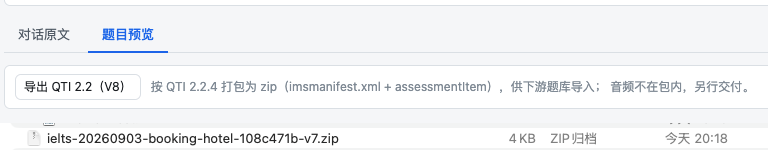
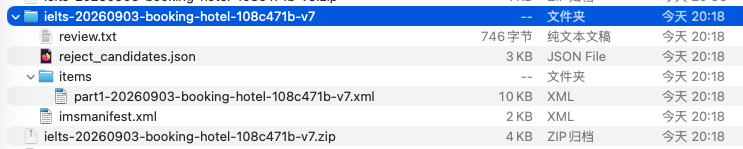
docs: tighten user guide language

diff --git a/USER_GUIDE.md b/USER_GUIDE.md
@@ -41,20 +41,8 @@
 
 ![全部材料生成成功](docs/images/user-guide/04-batch-completed.png)
 
-每张材料卡会同时预览最终题组，例如：
-
-- `Q1–Q4 · Form`
-- `Q5–Q10 · Note`
-
-每套固定分为两组，分界可能是 `4+6`、`5+5` 或 `6+4`。两组可以使用相同题型，也可以分别使用
-Form、Note、Table 中的不同题型。
-
-> 📷 **替换截图：`04-batch-completed.png`**
->
-> 1. 打开一批已经全部生成成功的“生成结果”页面；
-> 2. 找到一张题目也已生成完成的材料卡；
-> 3. 截图中必须完整显示场景标题、完成状态、信息点时间轴、两组题型标签和“阅读全文”按钮；
-> 4. 两组题型标签必须能看清题号范围，例如 `Q1–Q4 · Form`、`Q5–Q10 · Note`。
+材料卡会预览两组题目的题号范围和题型。每套按 `4+6`、`5+5` 或 `6+4` 分组，题型为 Form、
+Note 或 Table；两组可以使用相同题型。
 
 ### 某一套生成失败怎么办
 
@@ -65,12 +53,7 @@ Form、Note、Table 中的不同题型。
 - 成功后会从 `8/9` 自动变成 `9/9`；
 - 失败提示会自动消失。
 
-> 📷 **待补截图：`05-refill-failed-slot.png`**
->
-> 1. 打开一个存在单套生成失败、但其他材料已经成功的批次；
-> 2. 不要点击重跑整批；
-> 3. 截图中必须显示失败数量、失败原因说明、已经成功的材料数量和“补生成这一套”按钮；
-> 4. 如果当前没有自然失败批次，保留占位符，不需要故意制造故障。
+> 📷 **待补截图：单套生成失败和“补生成这一套”按钮**
 
 ---
 
@@ -90,13 +73,6 @@ Form、Note、Table 中的不同题型。
 
 ![查看对话原文和信息点](docs/images/user-guide/06-material-transcript.png)
 
-> 📷 **替换截图：`06-material-transcript.png`**
->
-> 1. 打开一套已经生成题目的材料，停留在“对话原文”页签；
-> 2. 将页面滚动到既能看到若干对话 Turn，又能看到下方“材料原文局部修改”和右侧“Turn 批注”的位置；
-> 3. 截图中必须显示至少一个答案信息点旁注、Turn 编号、材料原文局部修改说明和“分析并局部修改”按钮；
-> 4. 不要选中旁白 Turn，避免截图中出现不可修改状态。
-
 ### 题目预览
 
 这里按真实版式展示 Form、Note 或 Table。默认是考生视角；打开“显示答案和证据”后，可以检查答案、
@@ -106,37 +82,19 @@ Form、Note、Table 中的不同题型。
 
 ![以考生视角预览题目](docs/images/user-guide/07-question-preview.png)
 
-> 📷 **替换截图：`07-question-preview.png`**
->
-> 1. 在同一套材料中切换到“题目预览”；
-> 2. 保持“显示答案和证据”关闭；
-> 3. 截图中必须显示“材料与题目版本”选择器、“导出 QTI 2.2（Vn）”按钮、两组题面和右侧题目批注区；
-> 4. 尽量让第一组的题号范围和题型标题完整可见。
-
 打开“显示答案和证据”后，答案、原文引证和题解会显示在对应题目下方。
 
 ![查看题目答案和证据](docs/images/user-guide/07-question-answers-evidence.png)
 
 ### 导出给下游系统（QTI 2.2）
 
-题目预览上方的「导出 QTI 2.2（Vn）」按钮会把**当前显示的这一版**题目打成一个 zip 下载，按
-IMS QTI 2.2.4 标准打包，可直接导入支持该标准的题库或考试系统。按钮上的 Vn 就是版本选择器里
-选中的版本；想导出别的版本，先切换版本再点导出。
-
-下载完成后，可以在浏览器下载列表中查看 zip 文件名。压缩包内还包含 `review.txt`，记录需要人工
-确认的判分口径（例如某个短语的简写算不算对），导入前请打开看一遍。包里不含音频，音频需要另行
-交付给下游。
+点击「导出 QTI 2.2（Vn）」下载当前题目版本。需要导出其他版本时，先切换版本再点击导出。
 
 ![当前版本的 QTI 导出按钮](docs/images/user-guide/18-qti-export-button.png)
 
-点击后，浏览器会下载一个以材料 ID 和版本号命名的 zip，例如下图中的
-`ielts-20260903-booking-hotel-108c471b-v7.zip`。文件名中的 `v7` 表示这次下载的是 V7。上图展示的
-按钮是另一次查看 V8 时的状态；实际使用时，按钮和新下载文件的版本号应与当前选择的版本一致。
-
 ![浏览器下载 QTI 压缩包](docs/images/user-guide/18-qti-export-download.png)
 
-如果提示「未通过导出门禁」，说明这一版题目的审核数据本身有不一致之处（提示里会逐条列出原因），
-重试不会有变化；请先按第 5 节修改题目，生成新版本后再导出。
+下载内容为 QTI 2.2.4 zip，不包含音频。如果导出失败，请按页面提示修正当前版本后重试。
 
 ---
 
@@ -157,96 +115,53 @@ IMS QTI 2.2.4 标准打包，可直接导入支持该标准的题库或考试系
 
 ## 4. 评价并局部修改材料原文
 
-客户可以直接对某一个对话 Turn 提交小范围修改，例如：
+可以对单个对话 Turn 提交以下修改：
 
-- 删除不承载答案的冗余礼貌语；
-- 缩短不影响信息点的表达；
-- 修正局部语法或自然度；
-- 删除不再需要的复述确认。
+- 删除冗余表达或复述；
+- 缩短句子；
+- 修正局部语法。
 
-局部修改一次只处理一个非旁白 Turn。系统不会借此重写整段对话，也不会修改题面、答案、题型、题组
-或答案信息点。
+**一次只能处理一个非旁白 Turn，且不能修改题目或答案。**
 
 ### 提交 Turn 批注
 
 1. 打开“对话原文”；
 2. 点击需要修改的非旁白 Turn；
 3. 在右侧选择“重要 / 一般 / 轻微”；
-4. 写清楚需要保留和删除的内容；
+4. 填写修改意见；
 5. 点击“添加批注”；
-6. 确认当前只有一条待处理的 Turn 批注后，点击“分析并局部修改”。
+6. 点击“分析并局部修改”。
 
-例如：
-
-```text
-复述预订编号显得多余，请删除编号复述，
-只保留 “Thank you. I will save that with my travel details.”
-```
-
-下图中，Turn 29 被选中，右侧已经保存了一条“一般”批注。确认意见无误后，点击右下角
-“分析并局部修改”：
+下图中，Turn 29 被选中修改：
 
 ![为 Turn 29 提交删除冗余复述的意见](docs/images/user-guide/19-local-material-revision-comment.png)
 
 ### 查看处理进度
 
-开始处理后，按钮会暂时禁用，左侧显示目标 Turn 和处理步骤：
-
-1. 已接收请求；
-2. 分析局部修改；
-3. 校验材料、信息点和题目；
-4. 独立复核；
-5. 生成新版本。
-
-处理期间可以刷新或离开页面，重新进入后会恢复当前进度。请勿重复提交。
+开始处理后，页面会显示进度。可以刷新或离开页面，任务会在后台继续运行。
 
 ### 修改成功
 
-修改通过后会生成新的材料与题目版本，但不会自动采用。结果区域会显示：
-
-- 修改位置；
-- 修改前原文；
-- 修改后原文；
-- 处理理由；
-- 题目保持不变；
-- 录音需要重新合成。
-
-如果删除的是冗余复述确认，对应信息点上的“有复述或确认”标签也会在新版本中消失；答案和原文证据
-仍保持不变。
-
-下图展示了局部修改完成后的实际页面：
-
-- “材料原文局部修改”区域列出修改位置、修改前、修改后、处理理由和影响；
-- 右侧批注显示“已在新版本处理”；
-- 版本选择器显示当前采用版本；
-- 黄色提示说明该版本修改了听力原文，需要生成新版录音；
-- Q9、Q10 的答案承载句仍保留，题目和答案没有变化。
+修改成功后会生成新版本，并显示修改前后内容和处理理由。题目保持不变，录音需要重新生成。
 
 ![删除冗余复述后生成新的材料版本](docs/images/user-guide/20-local-material-revision-completed.png)
 
 ### 哪些修改会被拒绝
 
-如果意见会改变以下内容，系统会返回“会影响题目或答案”，不会生成新版本：
+以下意见不会执行：
 
-- 删除答案本身或唯一答案证据；
-- 改变标准答案或可接受答案；
-- 删除纠错链、拼写过程或消歧所必需的确认；
-- 改变题型、题组、题号或信息点；
-- 大范围重写、增删或重排 Turn。
+- 修改答案或答案证据；
+- 修改题型、题组或信息点；
+- 同时修改多个 Turn；
+- 大范围重写材料。
 
-普通复述即使删除后使整套材料少于三个 confirmed 信息点，也只作为质量提醒，不会单独阻止人工局部
-修改。初始材料生成仍保持至少三个 confirmed 信息点的要求。
-
-例如，要求把整个场景从“酒店预订”改为“餐厅订位”，并调整全部对话，已经不是单个 Turn 的局部
-修改。系统会把批注标记为“超出局部范围”，说明它会影响多个 Turn、证据、信息点和题目支持关系，
-且不会生成新版本。
+系统会说明意见是“会影响题目或答案”还是“超出局部范围”，且不会生成新版本。
 
 ![大范围重写材料被判定为超出局部范围](docs/images/user-guide/21-local-material-revision-rejected.png)
 
 ### 局部修改失败后怎么办
 
-如果系统质量复核失败，页面会显示“处理失败”和具体原因。原版本不会改变，原 Turn 批注仍保留为待处理
-状态。修复系统问题或调整意见后，可以直接再次点击“分析并局部修改”，不需要重新添加同一条批注。
+处理失败时，原版本不会改变。按页面提示调整意见后可以重新提交。
 
 ---
 
@@ -278,12 +193,7 @@ IMS QTI 2.2.4 标准打包，可直接导入支持该标准的题库或考试系
 | **需要重新命题** | 需要调整题型、题组、布局或信息点规划 | 点击“确认重新命题” |
 | **需要修改材料** | 当前听力原文不支持目标答案或要求 | 点击“确认修改材料” |
 
-> 📷 **待补截图：`10-revision-results.png`**
->
-> 1. 打开一套已经处理过题目批注的材料；
-> 2. 选择一个能看到“无需修改”“需要重新命题”或“需要修改材料”结果的版本；
-> 3. 截图中至少完整显示一个处理结果标题、系统理由、原文引证和可执行按钮；
-> 4. 如果同一屏能放下两个不同结果，可以一起截图；不要为了凑四种结果拼接图片。
+> 📷 **待补截图：一至两个题目评价处理结果**
 
 ### 修改题目
 
@@ -370,24 +280,14 @@ IMS QTI 2.2.4 标准打包，可直接导入支持该标准的题库或考试系
 
 回到结果页，勾选需要保留的材料。每个已有结果的场景至少选择 1 套，之后点击“提交审核”。
 
-> 📷 **待补截图：`16-material-selection.png`**
->
-> 1. 打开一批已经生成完成、尚未提交审核的结果；
-> 2. 在至少两个场景中各勾选一套材料；
-> 3. 截图中必须显示卡片勾选状态、每个场景的已选数量、页面底部总计和“提交审核”按钮；
-> 4. 截图前不要真正点击提交，以便保留可操作状态。
+> 📷 **待补截图：材料勾选状态和“提交审核”按钮**
 
 ### 审核队列
 
 点击“提交审核”后，所选材料会进入顶部导航中的“审核队列”。审核队列按提交批次分组显示材料；如需
 继续调整选择，可以撤回整批，返回生成结果页重新选稿。
 
-> 📷 **新增截图：`24-review-queue.png`**
->
-> 1. 在“生成结果”页勾选至少一套材料并点击“提交审核”；
-> 2. 点击顶部“审核队列”；
-> 3. 截图中必须显示已提交批次、材料数量或材料列表、提交状态和“撤回”操作；
-> 4. 使用测试批次，不要截入个人邮箱或其他敏感信息。
+> 📷 **待补截图：审核队列和“撤回”操作**
 
 ### 查看历史
 
@@ -396,12 +296,7 @@ IMS QTI 2.2.4 标准打包，可直接导入支持该标准的题库或考试系
 - **待选稿**：可以继续选择和提交；
 - **已提交**：只读，可以查看和试听；
 
-> 📷 **待补截图：`17-batch-history.png`**
->
-> 1. 打开顶部“生成结果”，展开页面左侧历史批次面板；
-> 2. 让列表中同时出现至少一个“待选稿”和一个“已提交”批次；
-> 3. 截图中必须显示批次时间、场景或数量摘要、状态标签和当前选中的批次；
-> 4. 已提交批次应能看出只读状态。
+> 📷 **待补截图：历史批次面板**
 
 ---
 
